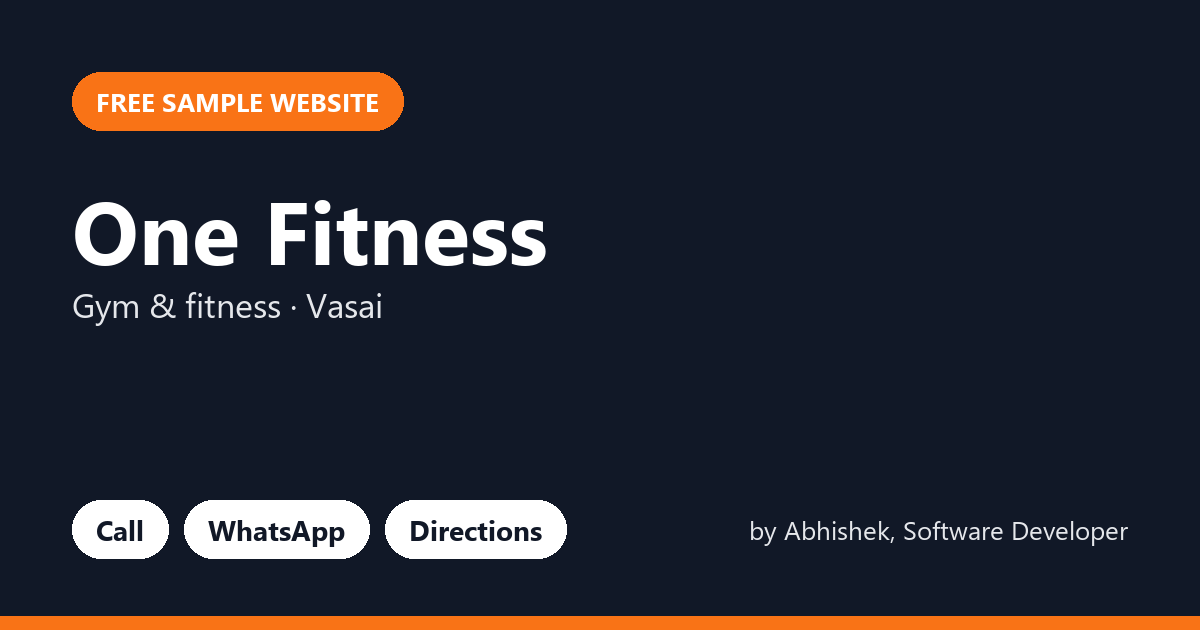
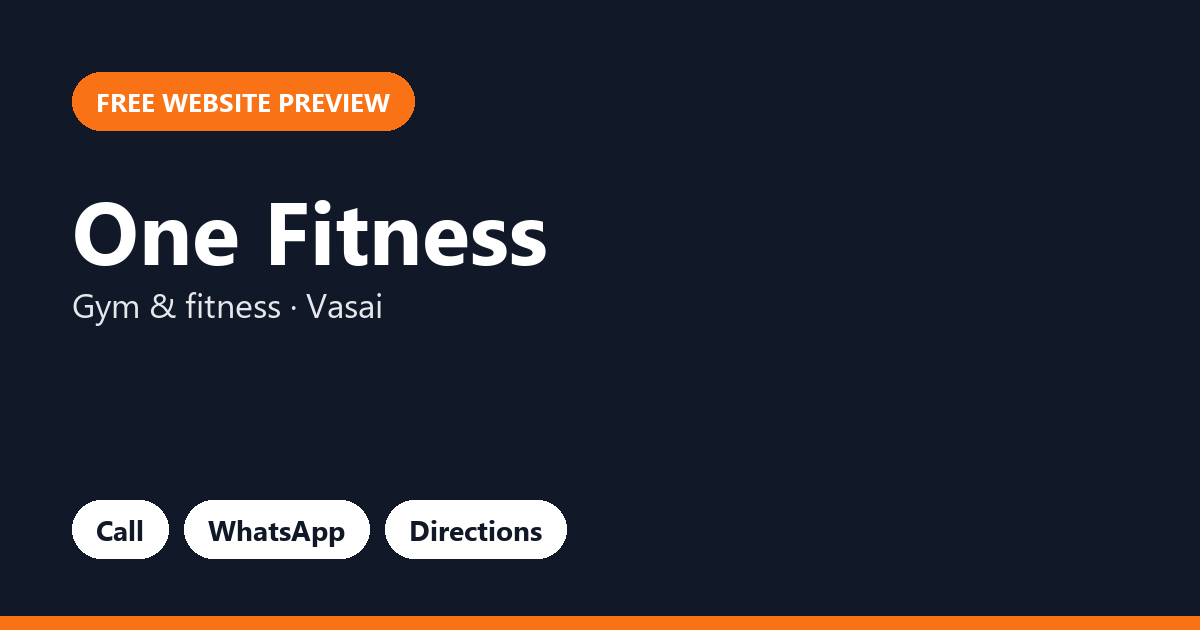
Previews: drop price and personal name (86-90 of 139)

Changed region(s): [[0.6167, 0.8143, 0.925, 0.8746], [0.1233, 0.1206, 0.37, 0.2111]]

diff --git a/p/patisserie-victoria-margao-8133/index.html b/p/patisserie-victoria-margao-8133/index.html
@@ -6,8 +6,8 @@
 <title>Patisserie Victoria | Bakery &amp; sweets in Margao</title>
 <meta name="description" content="Freshly baked every day. Cakes, pastries and treats for every celebration.">
 <meta property="og:type" content="website">
-<meta property="og:title" content="Patisserie Victoria · Free sample website">
-<meta property="og:description" content="Made by Abhishek, Software Developer. Call, WhatsApp and directions in one tap.">
+<meta property="og:title" content="Patisserie Victoria · Free website preview">
+<meta property="og:description" content="Call, WhatsApp and directions in one tap.">
 <meta property="og:url" content="https://roguestar03.github.io/p/patisserie-victoria-margao-8133/">
 <meta property="og:image" content="https://roguestar03.github.io/p/patisserie-victoria-margao-8133/og.png">
 <meta property="og:image:width" content="1200">
@@ -167,7 +167,7 @@ footer{padding:40px 0 110px;border-top:1px solid var(--line);font-size:14px;colo
 </style>
 </head>
 <body>
-<div class="pv">Sample website made for <b>Patisserie Victoria</b> by <b>Abhishek</b>. Not the official website yet. <b>Like it?</b> Make it yours for ₹1,999. Contact: <a href="mailto:abhishekkayasth87@gmail.com">abhishekkayasth87@gmail.com</a> · <a href="https://www.linkedin.com/in/abhishek-kayasth-050250239/" target="_blank" rel="noopener">LinkedIn</a></div>
+<div class="pv">Free website preview for <b>Patisserie Victoria</b>. Not the official website yet. <b>Like it?</b> Just reply to our message. Contact: <a href="mailto:abhishekkayasth87@gmail.com">abhishekkayasth87@gmail.com</a> · <a href="https://www.linkedin.com/in/abhishek-kayasth-050250239/" target="_blank" rel="noopener">LinkedIn</a></div>
 <header>
   <div class="wrap nav">
     <a href="#top" class="logo"><span class="mark">PV</span><span class="t">Patisserie Victoria</span></a>
@@ -259,7 +259,7 @@ footer{padding:40px 0 110px;border-top:1px solid var(--line);font-size:14px;colo
       <div><b style="color:var(--ink)">Patisserie Victoria</b><br>G-7 Clergy Home shopping complex, Padre Miranda Rd, opp. Hospicio Hospital Road, Margao<p class="soc"><a href="https://www.facebook.com/1562702573947451" target="_blank" rel="noopener">Facebook</a></p></div>
       <div>+91 96735 48133<br>&copy; 2026 Patisserie Victoria</div>
     </div>
-    <p class="credit">Sample website by Abhishek, Software Developer · <a href="mailto:abhishekkayasth87@gmail.com">abhishekkayasth87@gmail.com</a> · <a href="https://www.linkedin.com/in/abhishek-kayasth-050250239/" target="_blank" rel="noopener">LinkedIn</a></p>
+    <p class="credit">Website preview · <a href="mailto:abhishekkayasth87@gmail.com">abhishekkayasth87@gmail.com</a> · <a href="https://www.linkedin.com/in/abhishek-kayasth-050250239/" target="_blank" rel="noopener">LinkedIn</a></p>
   </div>
 </footer>
 

diff --git a/p/pathrabe-gastroderm-clinic-nagpur-1703/index.html b/p/pathrabe-gastroderm-clinic-nagpur-1703/index.html
@@ -6,8 +6,8 @@
 <title>Pathrabe Gastroderm Clinic | Clinic in Nagpur</title>
 <meta name="description" content="Trusted healthcare close to home. Consult, get treated and follow up with ease.">
 <meta property="og:type" content="website">
-<meta property="og:title" content="Pathrabe Gastroderm Clinic · Free sample website">
-<meta property="og:description" content="Made by Abhishek, Software Developer. Call, WhatsApp and directions in one tap.">
+<meta property="og:title" content="Pathrabe Gastroderm Clinic · Free website preview">
+<meta property="og:description" content="Call, WhatsApp and directions in one tap.">
 <meta property="og:url" content="https://roguestar03.github.io/p/pathrabe-gastroderm-clinic-nagpur-1703/">
 <meta property="og:image" content="https://roguestar03.github.io/p/pathrabe-gastroderm-clinic-nagpur-1703/og.png">
 <meta property="og:image:width" content="1200">
@@ -167,7 +167,7 @@ footer{padding:40px 0 110px;border-top:1px solid var(--line);font-size:14px;colo
 </style>
 </head>
 <body>
-<div class="pv">Sample website made for <b>Pathrabe Gastroderm Clinic</b> by <b>Abhishek</b>. Not the official website yet. <b>Like it?</b> Make it yours for ₹1,999. Contact: <a href="mailto:abhishekkayasth87@gmail.com">abhishekkayasth87@gmail.com</a> · <a href="https://www.linkedin.com/in/abhishek-kayasth-050250239/" target="_blank" rel="noopener">LinkedIn</a></div>
+<div class="pv">Free website preview for <b>Pathrabe Gastroderm Clinic</b>. Not the official website yet. <b>Like it?</b> Just reply to our message. Contact: <a href="mailto:abhishekkayasth87@gmail.com">abhishekkayasth87@gmail.com</a> · <a href="https://www.linkedin.com/in/abhishek-kayasth-050250239/" target="_blank" rel="noopener">LinkedIn</a></div>
 <header>
   <div class="wrap nav">
     <a href="#top" class="logo"><span class="mark">PG</span><span class="t">Pathrabe Gastroderm Clinic</span></a>
@@ -259,7 +259,7 @@ footer{padding:40px 0 110px;border-top:1px solid var(--line);font-size:14px;colo
       <div><b style="color:var(--ink)">Pathrabe Gastroderm Clinic</b><br>95 Ring Road, Nagpur<p class="soc"><a href="https://www.facebook.com/100267665761471" target="_blank" rel="noopener">Facebook</a></p></div>
       <div>+91 95116 21703<br>&copy; 2026 Pathrabe Gastroderm Clinic</div>
     </div>
-    <p class="credit">Sample website by Abhishek, Software Developer · <a href="mailto:abhishekkayasth87@gmail.com">abhishekkayasth87@gmail.com</a> · <a href="https://www.linkedin.com/in/abhishek-kayasth-050250239/" target="_blank" rel="noopener">LinkedIn</a></p>
+    <p class="credit">Website preview · <a href="mailto:abhishekkayasth87@gmail.com">abhishekkayasth87@gmail.com</a> · <a href="https://www.linkedin.com/in/abhishek-kayasth-050250239/" target="_blank" rel="noopener">LinkedIn</a></p>
   </div>
 </footer>
 

diff --git a/p/oradent-dental-clinic-jammu-2372/index.html b/p/oradent-dental-clinic-jammu-2372/index.html
@@ -6,8 +6,8 @@
 <title>Oradent Dental clinic | Dental clinic in Jammu</title>
 <meta name="description" content="Gentle, modern dental care for the whole family. Book your visit in under a minute.">
 <meta property="og:type" content="website">
-<meta property="og:title" content="Oradent Dental clinic · Free sample website">
-<meta property="og:description" content="Made by Abhishek, Software Developer. Call, WhatsApp and directions in one tap.">
+<meta property="og:title" content="Oradent Dental clinic · Free website preview">
+<meta property="og:description" content="Call, WhatsApp and directions in one tap.">
 <meta property="og:url" content="https://roguestar03.github.io/p/oradent-dental-clinic-jammu-2372/">
 <meta property="og:image" content="https://roguestar03.github.io/p/oradent-dental-clinic-jammu-2372/og.png">
 <meta property="og:image:width" content="1200">
@@ -167,7 +167,7 @@ footer{padding:40px 0 110px;border-top:1px solid var(--line);font-size:14px;colo
 </style>
 </head>
 <body>
-<div class="pv">Sample website made for <b>Oradent Dental clinic</b> by <b>Abhishek</b>. Not the official website yet. <b>Like it?</b> Make it yours for ₹1,999. Contact: <a href="mailto:abhishekkayasth87@gmail.com">abhishekkayasth87@gmail.com</a> · <a href="https://www.linkedin.com/in/abhishek-kayasth-050250239/" target="_blank" rel="noopener">LinkedIn</a></div>
+<div class="pv">Free website preview for <b>Oradent Dental clinic</b>. Not the official website yet. <b>Like it?</b> Just reply to our message. Contact: <a href="mailto:abhishekkayasth87@gmail.com">abhishekkayasth87@gmail.com</a> · <a href="https://www.linkedin.com/in/abhishek-kayasth-050250239/" target="_blank" rel="noopener">LinkedIn</a></div>
 <header>
   <div class="wrap nav">
     <a href="#top" class="logo"><span class="mark">OD</span><span class="t">Oradent Dental clinic</span></a>
@@ -259,7 +259,7 @@ footer{padding:40px 0 110px;border-top:1px solid var(--line);font-size:14px;colo
       <div><b style="color:var(--ink)">Oradent Dental clinic</b><br>1st Floor J&amp;K Bank, near HP Petrol Pump, Jammu<p class="soc"><a href="https://www.facebook.com/348012145694446" target="_blank" rel="noopener">Facebook</a></p></div>
       <div>+91 78895 62372<br>&copy; 2026 Oradent Dental clinic</div>
     </div>
-    <p class="credit">Sample website by Abhishek, Software Developer · <a href="mailto:abhishekkayasth87@gmail.com">abhishekkayasth87@gmail.com</a> · <a href="https://www.linkedin.com/in/abhishek-kayasth-050250239/" target="_blank" rel="noopener">LinkedIn</a></p>
+    <p class="credit">Website preview · <a href="mailto:abhishekkayasth87@gmail.com">abhishekkayasth87@gmail.com</a> · <a href="https://www.linkedin.com/in/abhishek-kayasth-050250239/" target="_blank" rel="noopener">LinkedIn</a></p>
   </div>
 </footer>
 

diff --git a/p/one-fitness-vasai-2800/index.html b/p/one-fitness-vasai-2800/index.html
@@ -6,8 +6,8 @@
 <title>One Fitness | Gym &amp; fitness in Vasai</title>
 <meta name="description" content="Train harder, get stronger. Modern equipment, expert trainers and a motivating crowd.">
 <meta property="og:type" content="website">
-<meta property="og:title" content="One Fitness · Free sample website">
-<meta property="og:description" content="Made by Abhishek, Software Developer. Call, WhatsApp and directions in one tap.">
+<meta property="og:title" content="One Fitness · Free website preview">
+<meta property="og:description" content="Call, WhatsApp and directions in one tap.">
 <meta property="og:url" content="https://roguestar03.github.io/p/one-fitness-vasai-2800/">
 <meta property="og:image" content="https://roguestar03.github.io/p/one-fitness-vasai-2800/og.png">
 <meta property="og:image:width" content="1200">
@@ -167,7 +167,7 @@ footer{padding:40px 0 110px;border-top:1px solid var(--line);font-size:14px;colo
 </style>
 </head>
 <body>
-<div class="pv">Sample website made for <b>One Fitness</b> by <b>Abhishek</b>. Not the official website yet. <b>Like it?</b> Make it yours for ₹1,999. Contact: <a href="mailto:abhishekkayasth87@gmail.com">abhishekkayasth87@gmail.com</a> · <a href="https://www.linkedin.com/in/abhishek-kayasth-050250239/" target="_blank" rel="noopener">LinkedIn</a></div>
+<div class="pv">Free website preview for <b>One Fitness</b>. Not the official website yet. <b>Like it?</b> Just reply to our message. Contact: <a href="mailto:abhishekkayasth87@gmail.com">abhishekkayasth87@gmail.com</a> · <a href="https://www.linkedin.com/in/abhishek-kayasth-050250239/" target="_blank" rel="noopener">LinkedIn</a></div>
 <header>
   <div class="wrap nav">
     <a href="#top" class="logo"><span class="mark">OF</span><span class="t">One Fitness</span></a>
@@ -259,7 +259,7 @@ footer{padding:40px 0 110px;border-top:1px solid var(--line);font-size:14px;colo
       <div><b style="color:var(--ink)">One Fitness</b><br>1st and 2nd floor, shreeji arcade, next to tandool bazaar, bangli road, vasai west<p class="soc"><a href="https://www.facebook.com/1040221119398118" target="_blank" rel="noopener">Facebook</a></p></div>
       <div>+91 84468 52800<br>&copy; 2026 One Fitness</div>
     </div>
-    <p class="credit">Sample website by Abhishek, Software Developer · <a href="mailto:abhishekkayasth87@gmail.com">abhishekkayasth87@gmail.com</a> · <a href="https://www.linkedin.com/in/abhishek-kayasth-050250239/" target="_blank" rel="noopener">LinkedIn</a></p>
+    <p class="credit">Website preview · <a href="mailto:abhishekkayasth87@gmail.com">abhishekkayasth87@gmail.com</a> · <a href="https://www.linkedin.com/in/abhishek-kayasth-050250239/" target="_blank" rel="noopener">LinkedIn</a></p>
   </div>
 </footer>
 

diff --git a/p/om-sai-gym-silchar-8534/index.html b/p/om-sai-gym-silchar-8534/index.html
@@ -6,8 +6,8 @@
 <title>Om Sai Gym | Gym &amp; fitness in Silchar</title>
 <meta name="description" content="Train harder, get stronger. Modern equipment, expert trainers and a motivating crowd.">
 <meta property="og:type" content="website">
-<meta property="og:title" content="Om Sai Gym · Free sample website">
-<meta property="og:description" content="Made by Abhishek, Software Developer. Call, WhatsApp and directions in one tap.">
+<meta property="og:title" content="Om Sai Gym · Free website preview">
+<meta property="og:description" content="Call, WhatsApp and directions in one tap.">
 <meta property="og:url" content="https://roguestar03.github.io/p/om-sai-gym-silchar-8534/">
 <meta property="og:image" content="https://roguestar03.github.io/p/om-sai-gym-silchar-8534/og.png">
 <meta property="og:image:width" content="1200">
@@ -167,7 +167,7 @@ footer{padding:40px 0 110px;border-top:1px solid var(--line);font-size:14px;colo
 </style>
 </head>
 <body>
-<div class="pv">Sample website made for <b>Om Sai Gym</b> by <b>Abhishek</b>. Not the official website yet. <b>Like it?</b> Make it yours for ₹1,999. Contact: <a href="mailto:abhishekkayasth87@gmail.com">abhishekkayasth87@gmail.com</a> · <a href="https://www.linkedin.com/in/abhishek-kayasth-050250239/" target="_blank" rel="noopener">LinkedIn</a></div>
+<div class="pv">Free website preview for <b>Om Sai Gym</b>. Not the official website yet. <b>Like it?</b> Just reply to our message. Contact: <a href="mailto:abhishekkayasth87@gmail.com">abhishekkayasth87@gmail.com</a> · <a href="https://www.linkedin.com/in/abhishek-kayasth-050250239/" target="_blank" rel="noopener">LinkedIn</a></div>
 <header>
   <div class="wrap nav">
     <a href="#top" class="logo"><span class="mark">OS</span><span class="t">Om Sai Gym</span></a>
@@ -259,7 +259,7 @@ footer{padding:40px 0 110px;border-top:1px solid var(--line);font-size:14px;colo
       <div><b style="color:var(--ink)">Om Sai Gym</b><br>opp. Ramanuj college, Silchar<p class="soc"><a href="https://www.facebook.com/1899862290027622" target="_blank" rel="noopener">Facebook</a></p></div>
       <div>+91 81349 78534<br>&copy; 2026 Om Sai Gym</div>
     </div>
-    <p class="credit">Sample website by Abhishek, Software Developer · <a href="mailto:abhishekkayasth87@gmail.com">abhishekkayasth87@gmail.com</a> · <a href="https://www.linkedin.com/in/abhishek-kayasth-050250239/" target="_blank" rel="noopener">LinkedIn</a></p>
+    <p class="credit">Website preview · <a href="mailto:abhishekkayasth87@gmail.com">abhishekkayasth87@gmail.com</a> · <a href="https://www.linkedin.com/in/abhishek-kayasth-050250239/" target="_blank" rel="noopener">LinkedIn</a></p>
   </div>
 </footer>
 
